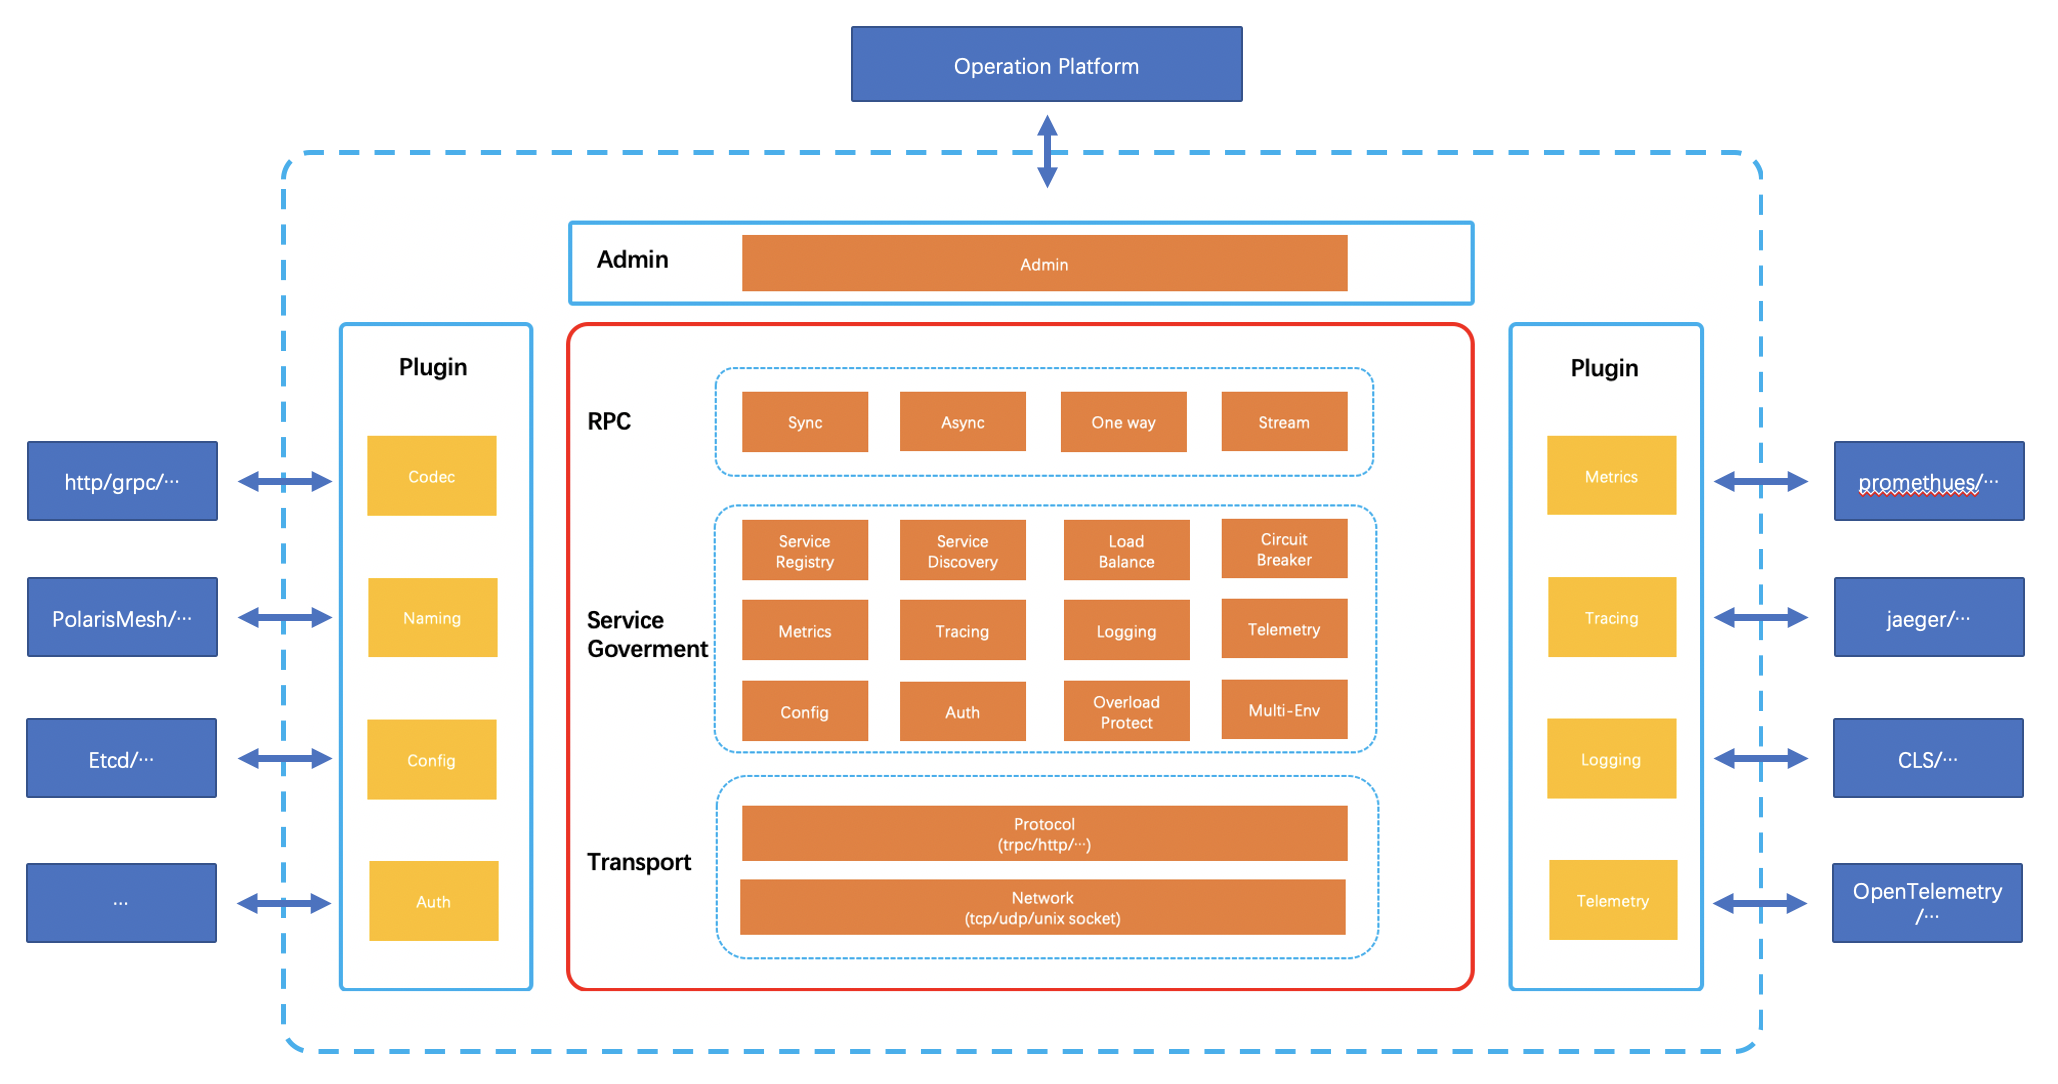
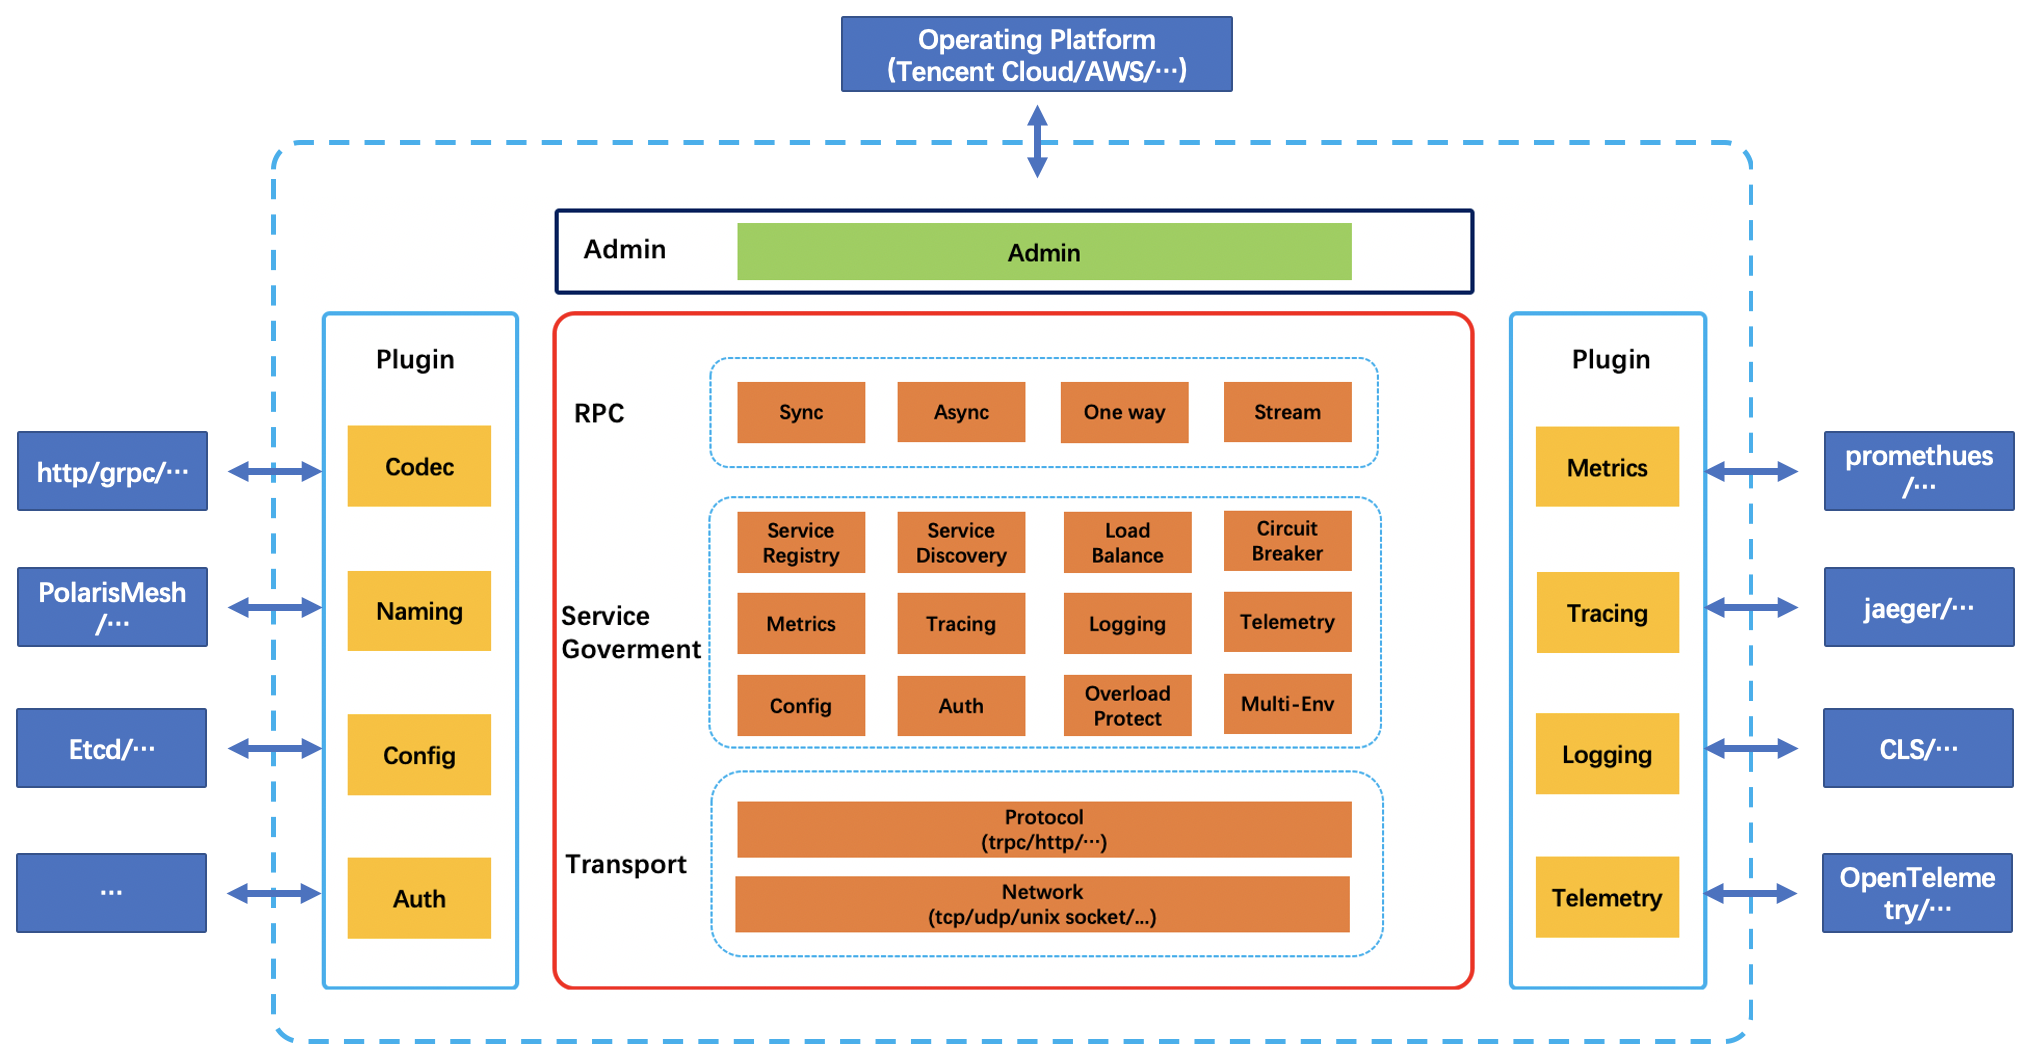
Docs: update images

Changed region(s): [[0.0, 0.1861, 0.9921, 0.9925], [0.124, 0.0, 0.8681, 0.2171]]

diff --git a/docs/en/architecture_design.md b/docs/en/architecture_design.md
@@ -37,11 +37,11 @@ For example: tRPC connects to different naming service systems by defined unifie
 The design of the plugin factory can bring the following benefits:
 - For the framework side: the framework only defines standard interfaces, without any plugin implementation, and is completely decoupled from the specific platform;
 - For the platform side: You only need to implement the plugin according to the standard interface of the framework plugin, and integrate the capabilities of the platform into the framework;
-- For the user side: business development only needs to be used through configuration, which is transparent to users;
+- For the user side: developers only need to be used through configuration, which is transparent to users;
 
 ## Filter
 
-In order to make the tRPC framework more scalable and meet personalized business needs (such as metrics, log collection, tracing, parameter verification, request replay, fault injection, etc.), tRPC use java's aspect-oriented programming(AOP) idea to support filter.
+In order to make the tRPC framework more scalable and meet personalized developers needs (such as metrics, log collection, tracing, parameter verification, request replay, fault injection, etc.), tRPC use java's aspect-oriented programming(AOP) idea to support filter.
 
 The overall idea of filter implementation is to set up buried points in the framework's process of processing RPC requests, and then insert a series of filters into the buried points.
 
@@ -65,16 +65,16 @@ The overall architecture consists of two parts: "**Framework Core**" and "**Plug
 
 The core of the framework can be divided into three layers:
 
-- **Communication Layer**: responsible for data transmission and protocol encoding and decoding. the framework has built-in support for communication protocols such as tcp and udp. The transmission protocol uses the tRPC protocol based on protobuf to carry RPC calls. It also supports other transmission protocols through codec plugins;
+- **Communication Layer**: responsible for data transmission and protocol encoding and decoding. the framework has built-in support for communication protocols such as tcp and udp and uses the tRPC protocol based on protobuf to carry RPC messages. It also supports other transmission protocols through codec plugins;
 
 - **Service Governance Layer**: responsible for abstracting service governance functions into plugins and connecting them with service governance systems by calling plug-ins to realize service discovery, load balance, monitor, tracing, etc.
 
-- **Call Layer**: encapsulates services and service proxy entities, provides RPC call interfaces, and supports business calls between services using synchronous, asynchronous, one-way and streaming calls;
+- **Call Layer**: encapsulates services and service proxy entities, provides RPC call interfaces, and supports synchronous, asynchronous, one-way and streaming calls;
 
 In addition, the framework also provides an admin management interface, so that users or the operation platform can manage services by calling the admin interface. The management interface includes functions such as updating configurations, viewing versions, modifying log levels, viewing framework runtime information, etc. At the same time, the framework also supports user-defined management interfaces to meet business customization needs.
 
 Plugins are the bridge that connects the framework core and external service governance systems. They are roughly divided into the following plugin types according to their functions:
-- Codec: provides interfaces related to protocol encoding and decoding, allowing expansion of business protocols, serialization methods, data compression methods through plugins;
+- Codec: provides interfaces related to protocol encoding and decoding, allowing expansion of customized protocols, serialization methods, data compression methods through plugins;
 - Naming: provides service registration (registry), service discovery (selector), load balance, circuit breaker and other capability encapsulation, used to connect with various naming service systems;
 - Config: provides interfaces to read local configuration files, remote configuration center configurations, etc., allows plug-in extensions to support configuration files in different formats, different configuration centers, and supports reload and watch configuration updates;
 - Metrics: provides interfaces to report monitor data, supports common single-dimensional reporting, such as counter, gauge, etc., and also supports multi-dimensional reporting;
@@ -94,8 +94,8 @@ The above figure describes the steps that an RPC call must go through. Based on 
 
 ![rpc](/docs/images/layer.png)
 
-In this picture, we have added a new layer of filter layer. Its main purpose is to use the idea of AOP to personalize the needs of the business (such as parameter verification, request replay, fault injection, etc.) and service governance (such as metrics, tracing, logging, authentication, etc.) that are inserted into the request/response processing process in a cross-cutting manner. This design enhances the framework's scalability.
+In this picture, we have added a new layer of filter layer. Its main purpose is to use the idea of AOP to meet customized needs (such as parameter verification, log replay, fault injection, etc.) and service governance (such as metrics, tracing, logging, authentication, etc.) that are inserted into the request/response processing process in a cross-cutting manner. This design enhances the framework's scalability.
 
 At the same time, tRPC modularizes each layer and adopts plug-in implementation. The framework connects the entire process of RPC calls through the idea of interface-based programming. For some modules, the framework also adopts a more fine-grained module splitting. For example: the Selector module is subdivided into sub-modules such as service discovery, service routing, load balanc and etc., and the Codec layer is also subdivided into three sub-modules: encode/decode, serialization and compression.
 
-Through the above overall layered design, plug-in implementation of specific modules and fine-grained module splitting, the framework has strong scalability and openness. Businesses can flexibly replace plugins to achieve connecting with different systems, and can also implement personalized business capabilities.
+Through the above overall layered design, plug-in implementation of specific modules and fine-grained module splitting, the framework has strong scalability and openness. Businesses can flexibly replace plugins to achieve connecting with different systems, and can also implement personalized capabilities.
